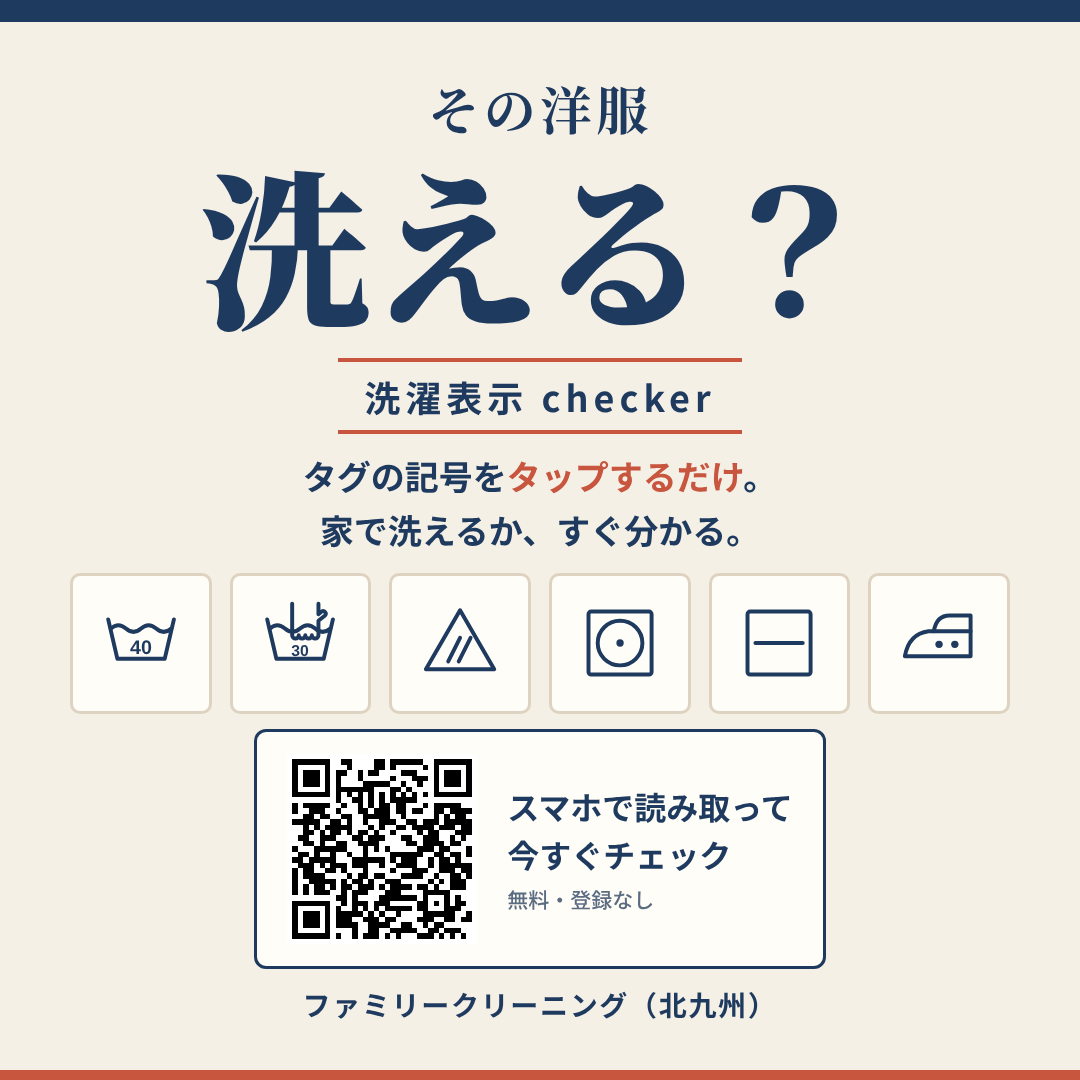
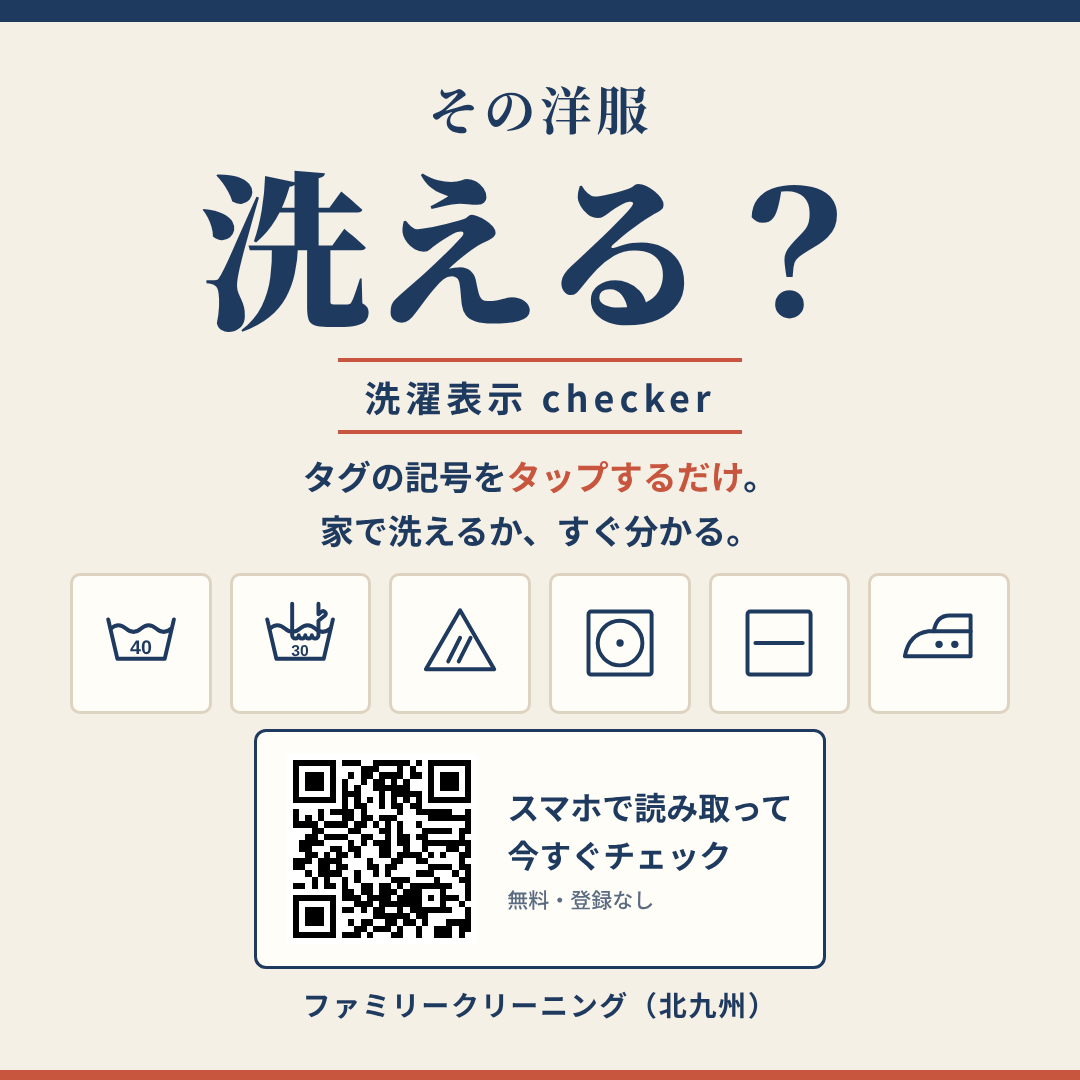
洗濯表示チェッカー: 公開先を自社サイト（familycleaning.jp/sentaku-checker/）に変更する準備
- canonical・og:url・シェア用URL（SHARE.url）を familycleaning.jp/sentaku-checker/ に変更
- 投稿用画像のQRコードを新URLで作り直し（読み取り確認済み）
- 告知文セットのURLも新URLに変更
自社サイトへのアップロードが済むまで main には取り込まない（GitHub Pages 版が未公開のURLを案内しないように）

Claude-Session: https://claude.ai/code/session_01FBUA7zVGWcJKu7rhiF2UqQ

Changed region(s): [[0.275, 0.7028, 0.4583, 0.8861]]

diff --git a/sentaku-checker/index.html b/sentaku-checker/index.html
@@ -6,12 +6,12 @@
 <title>洗濯表示チェッカー｜ファミリークリーニング</title>
 <meta name="description" content="衣類のタグにある洗濯表示の記号を選ぶだけで、家で洗えるか・どう洗うかが分かります。北九州のファミリークリーニングが提供しています。">
 <!-- SNSでURLを貼ったときのカード表示（画像なし。HTML1ファイルで完結させるため） -->
-<link rel="canonical" href="https://family929.github.io/YOHO/sentaku-checker/">
+<link rel="canonical" href="https://familycleaning.jp/sentaku-checker/">
 <meta property="og:type" content="website">
 <meta property="og:site_name" content="ファミリークリーニング（北九州）">
 <meta property="og:title" content="その洋服、洗える？｜洗濯表示チェッカー">
 <meta property="og:description" content="タグにある洗濯表示の記号を選ぶだけで、家で洗えるか・どう洗うかが分かります。北九州のファミリークリーニングが提供しています。">
-<meta property="og:url" content="https://family929.github.io/YOHO/sentaku-checker/">
+<meta property="og:url" content="https://familycleaning.jp/sentaku-checker/">
 <meta property="og:locale" content="ja_JP">
 <meta name="twitter:card" content="summary">
 <meta name="twitter:title" content="その洋服、洗える？｜洗濯表示チェッカー">
@@ -313,7 +313,7 @@ const LINKS = {
    SNSでのシェア（結果画面のボタン）。公開URLが変わったらここを直す
    ========================================================== */
 const SHARE = {
-  url: 'https://family929.github.io/YOHO/sentaku-checker/',
+  url: 'https://familycleaning.jp/sentaku-checker/',
   text: 'その洋服、洗える？ タグの洗濯表示を選ぶだけで、家で洗えるか分かるチェッカー',
 };
 

diff --git a/sns/sentaku-checker-posts.md b/sns/sentaku-checker-posts.md
@@ -1,6 +1,6 @@
 # 洗濯表示チェッカー 告知文セット
 
-- ページURL：https://family929.github.io/YOHO/sentaku-checker/
+- ページURL：https://familycleaning.jp/sentaku-checker/
 - 画像：`sns/sentaku-checker-square.png`（正方形）／`sns/sentaku-checker-story.png`（縦長・QR入り）
 - 書いてよい事実：無料・登録なし／タグの記号を選ぶだけ（7問）／判定は「家で洗える」「家で洗える（注意あり）」「プロに任せる」の3つ／記号は消費者庁が引用する JIS L 0001（2024年8月改正）にもとづく／選んだ内容はどこにも送信されない
 - 注意：判定は「目安」です。「必ず洗える」「失敗しない」などの言い切りは使わないでください
@@ -21,7 +21,7 @@
 ファミリークリーニング（北九州）では、そんなときにスマホで手軽に確かめられる「**洗濯表示チェッカー**」を作りました。無料で、登録もいりません。
 
 ▶ 洗濯表示チェッカーを使ってみる
-https://family929.github.io/YOHO/sentaku-checker/
+https://familycleaning.jp/sentaku-checker/
 
 ### 使い方は、タグの記号を選ぶだけ
 
@@ -48,7 +48,7 @@ https://family929.github.io/YOHO/sentaku-checker/
 お気に入りの一着や、シミがついてしまった衣類は、無理をせずクリーニング店にご相談ください。ファミリークリーニングでは、ご自宅から出すだけの宅配クリーニングや、公式LINEでのご相談も受け付けています。
 
 ▶ 洗濯表示チェッカー
-https://family929.github.io/YOHO/sentaku-checker/
+https://familycleaning.jp/sentaku-checker/
 
 ※判定は目安です。タグにある言葉（「単独洗い」「裏返して洗う」など）や素材の表示もあわせてご確認ください。
 
@@ -73,7 +73,7 @@ https://family929.github.io/YOHO/sentaku-checker/
 そこで、スマホでタグの記号を選ぶだけで「家で洗えるか」「どう洗えばいいか」が分かるページを作りました。
 
 ▶ 洗濯表示チェッカー
-https://family929.github.io/YOHO/sentaku-checker/
+https://familycleaning.jp/sentaku-checker/
 
 使い方はシンプルです。1画面に1問ずつ出てくる記号の中から、タグと同じものをタップしていくだけ。7問答えると、「家で洗える」「家で洗える（注意あり）」「プロに任せる」のどれかが出ます。
 
@@ -96,7 +96,7 @@ https://family929.github.io/YOHO/sentaku-checker/
 タグの洗濯表示の記号をタップするだけで、家で洗えるか・どう洗うかが分かるチェッカーを作りました。
 無料・登録なし🧺
 
-https://family929.github.io/YOHO/sentaku-checker/
+https://familycleaning.jp/sentaku-checker/
 
 #洗濯表示 #洗濯 #クリーニング
 ```
@@ -108,7 +108,7 @@ https://family929.github.io/YOHO/sentaku-checker/
 ・アイロンの温度が210℃／160℃／120℃に
 
 新しい表示にも対応した洗濯表示チェッカーはこちら👇
-https://family929.github.io/YOHO/sentaku-checker/
+https://familycleaning.jp/sentaku-checker/
 
 #洗濯表示
 ```
@@ -119,7 +119,7 @@ https://family929.github.io/YOHO/sentaku-checker/
 「この三角に斜線って何…？」
 
 記号を選ぶだけで分かるようにしました。
-https://family929.github.io/YOHO/sentaku-checker/
+https://familycleaning.jp/sentaku-checker/
 
 #洗濯表示 #家事
 ```
@@ -177,7 +177,7 @@ https://family929.github.io/YOHO/sentaku-checker/
 ・2024年8月に改正された新しい洗濯表示にも対応
 ・無料、登録なし
 
-▶ https://family929.github.io/YOHO/sentaku-checker/
+▶ https://familycleaning.jp/sentaku-checker/
 
 迷う組み合わせのときは「プロに任せる」と判定するようにしています。大切な衣類は、どうぞお気軽にご相談ください。
 ```
@@ -192,7 +192,7 @@ https://family929.github.io/YOHO/sentaku-checker/
 
 タグの洗濯表示の記号を選ぶだけで、家で洗えるか・どう洗うかが分かる「洗濯表示チェッカー」を作りました。無料でお使いいただけます。
 
-▶ https://family929.github.io/YOHO/sentaku-checker/
+▶ https://familycleaning.jp/sentaku-checker/
 
 「やっぱり不安…」というときは、このLINEにお洋服の写真を送ってご相談ください。
 ```
@@ -222,7 +222,7 @@ https://family929.github.io/YOHO/sentaku-checker/
 タグの洗濯表示の記号を選ぶだけで、家で洗えるか・どう洗うかが分かる「洗濯表示チェッカー」を作りました。無料・登録なしで使えます。
 
 ▶ 洗濯表示チェッカー
-https://family929.github.io/YOHO/sentaku-checker/
+https://familycleaning.jp/sentaku-checker/
 
 ・全7問、タグと同じ記号をタップするだけ
 ・判定は「家で洗える」「家で洗える（注意あり）」「プロに任せる」の3つ
